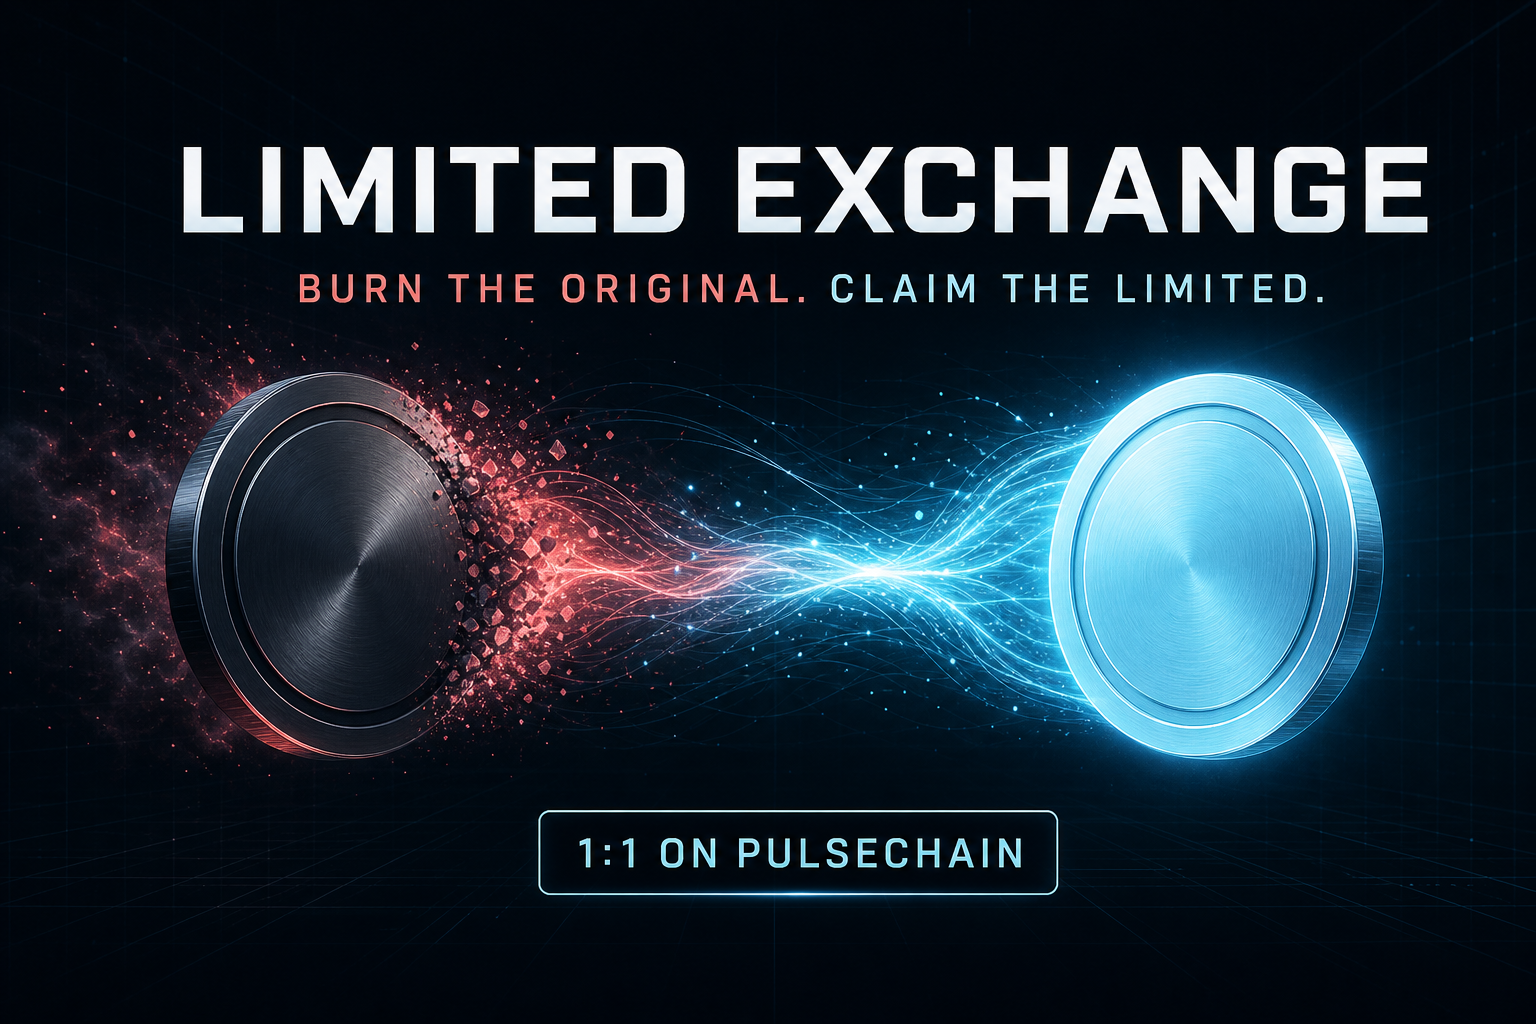
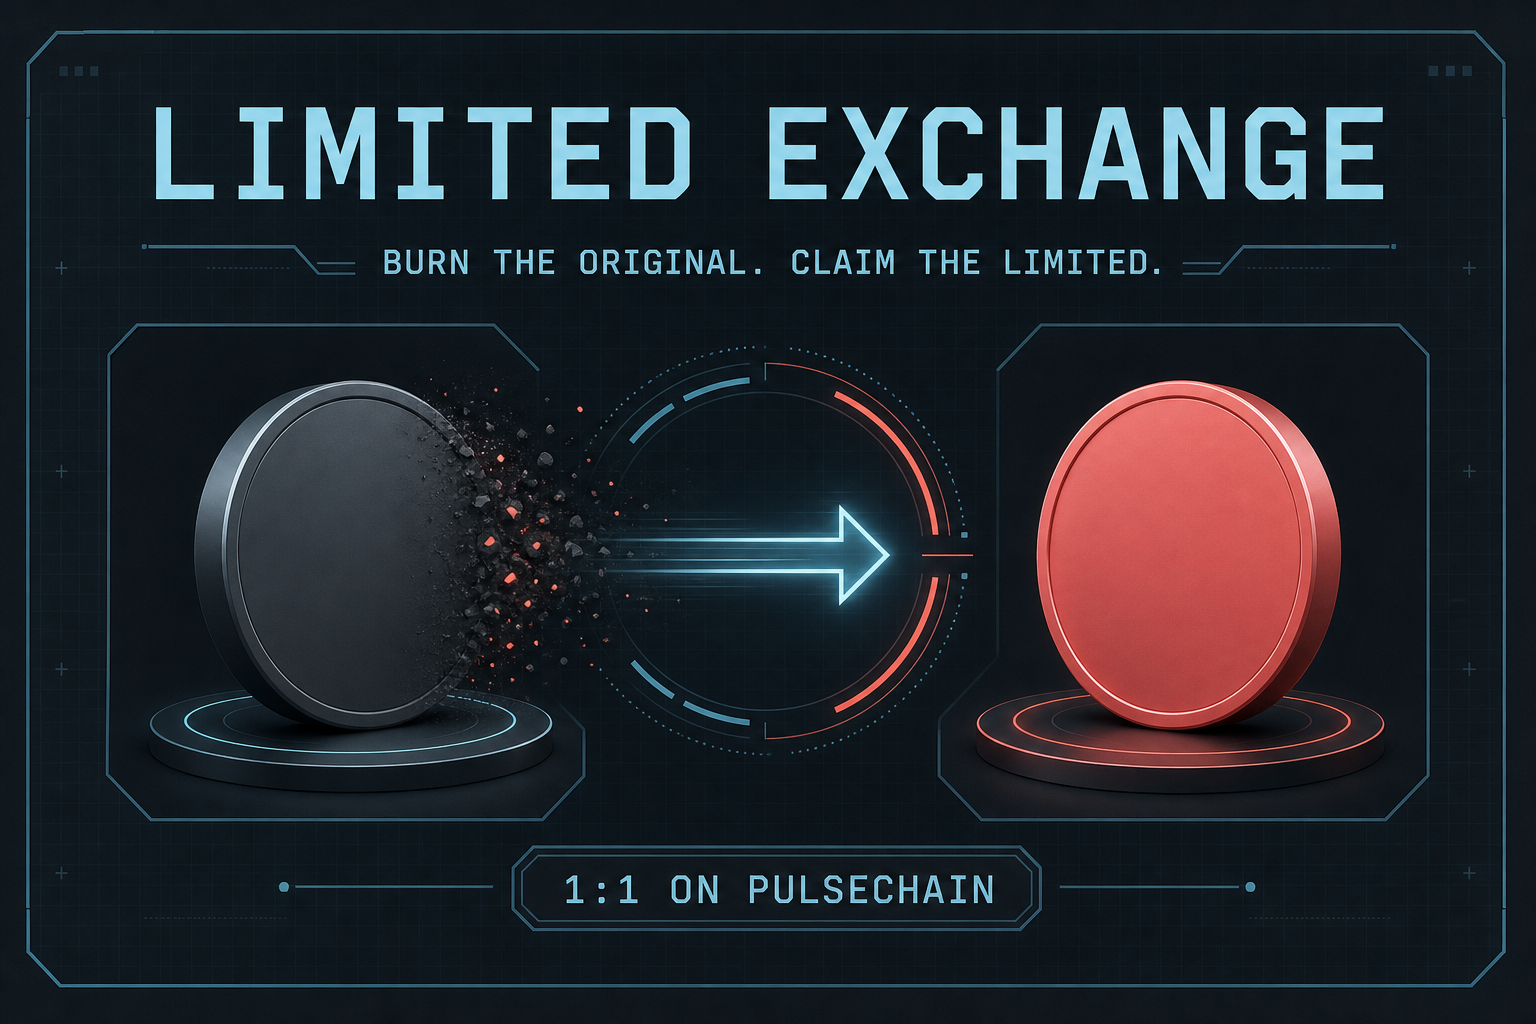
Match CashMoney original theme palette

diff --git a/app/globals.css b/app/globals.css
@@ -1,15 +1,20 @@
 @import "tailwindcss";
 
 :root {
-  --ink: #0b1118;
-  --panel: #111923;
-  --panel-2: #151f2b;
-  --line: #263747;
-  --cyan: #9feaff;
-  --cyan-dim: #6696a7;
-  --pink: #ff667f;
-  --text: #edf7fa;
-  --muted: #8796a5;
+  /* cashmoney-mint/src/themes.js — original (dark) theme */
+  --bg: #282c34;
+  --fg: #9cdef2;
+  --panel: #111111;
+  --border: #355a66;
+  --red: #e06c75;
+  --ink: var(--bg);
+  --panel-2: var(--panel);
+  --line: var(--border);
+  --cyan: var(--fg);
+  --cyan-dim: color-mix(in srgb, var(--fg) 62%, transparent);
+  --pink: var(--red);
+  --text: var(--fg);
+  --muted: color-mix(in srgb, var(--fg) 62%, transparent);
 }
 
 * { box-sizing: border-box; }
@@ -27,10 +32,7 @@ button:focus-visible, a:focus-visible, input:focus-visible { outline: 2px solid 
 .site-shell {
   min-height: 100vh;
   overflow: hidden;
-  background:
-    radial-gradient(circle at 12% 17%, rgba(255, 102, 127, .09), transparent 24rem),
-    radial-gradient(circle at 86% 10%, rgba(103, 202, 230, .08), transparent 28rem),
-    linear-gradient(180deg, #101720 0, #0b1118 43rem);
+  background: var(--bg);
 }
 
 .topbar {
@@ -43,7 +45,7 @@ button:focus-visible, a:focus-visible, input:focus-visible { outline: 2px solid 
   display: flex;
   align-items: center;
   justify-content: space-between;
-  border-bottom: 1px solid rgba(255, 102, 127, .35);
+  border-bottom: 1px solid color-mix(in srgb, var(--red) 35%, transparent);
 }
 .brand { color: var(--text); display: flex; align-items: center; text-decoration: none; }
 .brand-title {
@@ -53,14 +55,14 @@ button:focus-visible, a:focus-visible, input:focus-visible { outline: 2px solid 
   letter-spacing: .2em;
 }
 .topnav { display: flex; align-items: center; gap: 30px; }
-.topnav a { color: #93aebb; text-decoration: none; font-size: 14px; }
+.topnav a { color: color-mix(in srgb, var(--fg) 72%, transparent); text-decoration: none; font-size: 14px; }
 .topnav a:hover { color: var(--cyan); }
 .wallet-button {
-  border: 1px solid rgba(255, 102, 127, .55);
+  border: 1px solid color-mix(in srgb, var(--red) 55%, transparent);
   border-radius: 10px;
   padding: 13px 19px;
   color: var(--cyan);
-  background: rgba(255, 102, 127, .08);
+  background: color-mix(in srgb, var(--red) 8%, transparent);
   cursor: pointer;
   font-weight: 700;
 }
@@ -77,8 +79,8 @@ button:focus-visible, a:focus-visible, input:focus-visible { outline: 2px solid 
 .eyebrow span { width: 34px; height: 1px; background: var(--pink); }
 .hero h1 { max-width: 750px; margin: 20px 0 22px; font-size: clamp(48px, 7vw, 88px); line-height: .98; letter-spacing: -.065em; }
 .hero h1 em { color: var(--cyan); font-style: normal; font-weight: 450; }
-.hero > p { max-width: 670px; margin: 0; color: #93a0ad; font-size: 17px; line-height: 1.7; }
-.trust-row { display: flex; flex-wrap: wrap; gap: 26px; margin-top: 30px; color: #76919e; font-family: var(--font-geist-mono), monospace; font-size: 11px; }
+.hero > p { max-width: 670px; margin: 0; color: color-mix(in srgb, var(--fg) 68%, transparent); font-size: 17px; line-height: 1.7; }
+.trust-row { display: flex; flex-wrap: wrap; gap: 26px; margin-top: 30px; color: color-mix(in srgb, var(--fg) 58%, transparent); font-family: var(--font-geist-mono), monospace; font-size: 11px; }
 
 .exchange-section { max-width: 1120px; margin: 0 auto; padding: 0 34px 84px; }
 .pool-tabs { display: grid; grid-template-columns: repeat(4, 1fr); border-bottom: 1px solid var(--line); }
@@ -86,74 +88,74 @@ button:focus-visible, a:focus-visible, input:focus-visible { outline: 2px solid 
   position: relative;
   padding: 22px 20px;
   border: 0;
-  color: #637685;
+  color: color-mix(in srgb, var(--fg) 44%, transparent);
   background: transparent;
   text-align: left;
   cursor: pointer;
 }
 .pool-tabs button::after { content: ""; position: absolute; left: 20px; right: 20px; bottom: -1px; height: 2px; background: transparent; }
-.pool-tabs button.active { color: var(--cyan); background: linear-gradient(180deg, transparent, rgba(159, 234, 255, .035)); }
-.pool-tabs button.active::after { background: var(--pink); box-shadow: 0 0 14px rgba(255, 102, 127, .65); }
+.pool-tabs button.active { color: var(--fg); background: color-mix(in srgb, var(--fg) 3.5%, transparent); }
+.pool-tabs button.active::after { background: var(--red); box-shadow: 0 0 14px color-mix(in srgb, var(--red) 65%, transparent); }
 .pool-tabs small { display: block; font-family: var(--font-geist-mono), monospace; font-size: 9px; letter-spacing: .12em; }
 .pool-tabs strong { display: block; margin-top: 5px; font-size: 17px; }
 
 .exchange-grid { display: grid; grid-template-columns: minmax(0, 1.55fr) minmax(285px, .75fr); gap: 20px; margin-top: 34px; }
 .exchange-card, .supply-card, .admin-panel {
-  border: 1px solid rgba(255, 102, 127, .42);
+  border: 1px solid color-mix(in srgb, var(--red) 42%, var(--border));
   border-radius: 18px;
-  background: linear-gradient(155deg, rgba(22, 31, 42, .96), rgba(13, 19, 27, .98));
-  box-shadow: 0 24px 70px rgba(0, 0, 0, .3), inset 0 1px rgba(255, 255, 255, .025);
+  background: var(--panel);
+  box-shadow: 0 24px 70px color-mix(in srgb, var(--bg) 42%, transparent), inset 0 1px color-mix(in srgb, var(--fg) 2.5%, transparent);
 }
 .exchange-card { padding: 30px; }
 .card-heading { display: flex; align-items: flex-start; justify-content: space-between; gap: 18px; }
 .card-heading h2 { margin: 8px 0 0; font-size: 25px; letter-spacing: -.03em; }
 .card-heading h2 span { color: var(--pink); padding: 0 5px; }
 .network-pill { border: 1px solid var(--line); border-radius: 999px; padding: 8px 11px; color: var(--muted); font: 9px var(--font-geist-mono), monospace; letter-spacing: .08em; }
-.network-pill.live { color: #6fffc5; }
-.network-pill.pending { color: #efb769; }
-.amount-panel, .receive-panel { display: block; margin-top: 28px; border: 1px solid var(--line); border-radius: 12px; padding: 15px 16px 17px; background: #0d141c; }
+.network-pill.live { color: var(--fg); }
+.network-pill.pending { color: var(--red); }
+.amount-panel, .receive-panel { display: block; margin-top: 28px; border: 1px solid var(--border); border-radius: 12px; padding: 15px 16px 17px; background: var(--panel); }
 .amount-panel > span, .receive-panel > span { color: var(--muted); font-size: 12px; }
 .amount-panel .balance { float: right; }
 .amount-panel > div, .receive-panel > div { display: flex; align-items: center; gap: 12px; margin-top: 10px; }
 .amount-panel input { width: 100%; min-width: 0; padding: 0; border: 0; color: white; background: transparent; font-size: 31px; font-weight: 700; }
-.amount-panel input::placeholder { color: #43515c; }
-.amount-panel button { border: 0; padding: 6px 8px; border-radius: 6px; color: var(--pink); background: rgba(255, 102, 127, .1); cursor: pointer; font-size: 10px; font-weight: 800; }
+.amount-panel input::placeholder { color: color-mix(in srgb, var(--fg) 28%, transparent); }
+.amount-panel button { border: 0; padding: 6px 8px; border-radius: 6px; color: var(--red); background: color-mix(in srgb, var(--red) 10%, transparent); cursor: pointer; font-size: 10px; font-weight: 800; }
 .amount-panel b, .receive-panel b { color: var(--cyan); white-space: nowrap; }
-.rate-divider { height: 52px; display: flex; align-items: center; justify-content: center; gap: 10px; color: #6d808d; font: 10px var(--font-geist-mono), monospace; }
+.rate-divider { height: 52px; display: flex; align-items: center; justify-content: center; gap: 10px; color: color-mix(in srgb, var(--fg) 48%, transparent); font: 10px var(--font-geist-mono), monospace; }
 .rate-divider span { display: grid; place-items: center; width: 28px; height: 28px; border: 1px solid var(--line); border-radius: 50%; color: var(--pink); background: var(--panel); }
-.receive-panel { margin-top: 0; background: rgba(159, 234, 255, .035); }
+.receive-panel { margin-top: 0; background: color-mix(in srgb, var(--fg) 3.5%, var(--panel)); }
 .receive-panel strong { width: 100%; font-size: 31px; }
 .pool-meta { display: flex; justify-content: space-between; margin: 20px 2px; color: var(--muted); font-size: 12px; }
-.pool-meta strong { color: #b5c8d0; }
+.pool-meta strong { color: var(--fg); }
 .redeem-button, .admin-panel button {
   width: 100%;
-  border: 1px solid #ff7188;
+  border: 1px solid var(--red);
   border-radius: 10px;
   padding: 16px;
-  color: #10151b;
-  background: linear-gradient(135deg, #ff778d, #f25271);
+  color: var(--fg);
+  background: color-mix(in srgb, var(--red) 18%, var(--panel));
   cursor: pointer;
   font-weight: 850;
-  box-shadow: 0 10px 28px rgba(255, 75, 107, .18);
+  box-shadow: 0 10px 28px color-mix(in srgb, var(--red) 18%, transparent);
 }
 .redeem-button:disabled, .admin-panel button:disabled { cursor: wait; opacity: .65; }
-.status-line { min-height: 18px; margin: 13px 0 0; text-align: center; color: #708591; font-size: 11px; }
+.status-line { min-height: 18px; margin: 13px 0 0; text-align: center; color: color-mix(in srgb, var(--fg) 52%, transparent); font-size: 11px; }
 
 .side-panel { display: flex; flex-direction: column; gap: 14px; }
 .supply-card { height: 100%; padding: 28px; }
 .supply-card h3 { margin: 8px 0 0; font-size: 23px; }
-.orb { width: 130px; height: 130px; margin: 30px auto; display: grid; place-content: center; text-align: center; border: 1px solid rgba(159, 234, 255, .35); border-radius: 50%; background: radial-gradient(circle, rgba(159, 234, 255, .12), rgba(159, 234, 255, .01) 62%); box-shadow: 0 0 40px rgba(159, 234, 255, .08), inset 0 0 25px rgba(159, 234, 255, .08); }
+.orb { width: 130px; height: 130px; margin: 30px auto; display: grid; place-content: center; text-align: center; border: 1px solid color-mix(in srgb, var(--fg) 35%, transparent); border-radius: 50%; background: radial-gradient(circle, color-mix(in srgb, var(--fg) 12%, var(--panel)), var(--panel) 62%); box-shadow: 0 0 40px color-mix(in srgb, var(--fg) 8%, transparent), inset 0 0 25px color-mix(in srgb, var(--fg) 8%, transparent); }
 .orb span { color: var(--cyan); font-size: 30px; font-weight: 850; }
 .orb small { color: var(--cyan-dim); font: 8px var(--font-geist-mono), monospace; letter-spacing: .16em; }
 .supply-card dl { margin: 0; }
-.supply-card dl div { display: flex; justify-content: space-between; padding: 12px 0; border-top: 1px solid rgba(38, 55, 71, .75); font-size: 12px; }
+.supply-card dl div { display: flex; justify-content: space-between; padding: 12px 0; border-top: 1px solid color-mix(in srgb, var(--border) 75%, transparent); font-size: 12px; }
 .supply-card dt { color: var(--muted); }
-.supply-card dd { margin: 0; color: #bfd1d8; }
-.admin-toggle { display: flex; justify-content: space-between; width: 100%; border: 1px solid var(--line); border-radius: 10px; padding: 13px 15px; color: #81939f; background: rgba(17, 25, 35, .8); cursor: pointer; }
+.supply-card dd { margin: 0; color: var(--fg); }
+.admin-toggle { display: flex; justify-content: space-between; width: 100%; border: 1px solid var(--border); border-radius: 10px; padding: 13px 15px; color: color-mix(in srgb, var(--fg) 62%, transparent); background: var(--panel); cursor: pointer; }
 .admin-panel { padding: 18px; }
 .admin-panel p { margin: 0 0 14px; color: var(--cyan); font-size: 13px; }
 .admin-panel label span { display: block; margin-bottom: 7px; color: var(--muted); font-size: 11px; }
-.admin-panel input { width: 100%; margin-bottom: 10px; border: 1px solid var(--line); border-radius: 8px; padding: 11px; color: white; background: #0d141c; }
+.admin-panel input { width: 100%; margin-bottom: 10px; border: 1px solid var(--border); border-radius: 8px; padding: 11px; color: var(--fg); background: var(--panel); }
 .admin-panel button { padding: 12px; font-size: 12px; }
 
 .how-section { max-width: 1120px; margin: 0 auto 84px; padding: 0 34px; display: grid; grid-template-columns: repeat(3, 1fr); }
@@ -162,7 +164,7 @@ button:focus-visible, a:focus-visible, input:focus-visible { outline: 2px solid 
 .section-number { color: var(--pink); font: 10px var(--font-geist-mono), monospace; }
 .how-section h3 { margin: 20px 0 10px; color: var(--cyan); }
 .how-section p { margin: 0; color: var(--muted); line-height: 1.6; font-size: 13px; }
-footer { max-width: 1120px; margin: auto; padding: 26px 34px 42px; border-top: 1px solid var(--line); display: flex; justify-content: space-between; align-items: center; color: #596b77; font: 10px var(--font-geist-mono), monospace; }
+footer { max-width: 1120px; margin: auto; padding: 26px 34px 42px; border-top: 1px solid var(--border); display: flex; justify-content: space-between; align-items: center; color: color-mix(in srgb, var(--fg) 42%, transparent); font: 10px var(--font-geist-mono), monospace; }
 footer span { color: var(--pink); letter-spacing: .1em; }
 footer a { color: var(--cyan-dim); text-decoration: none; }
 
